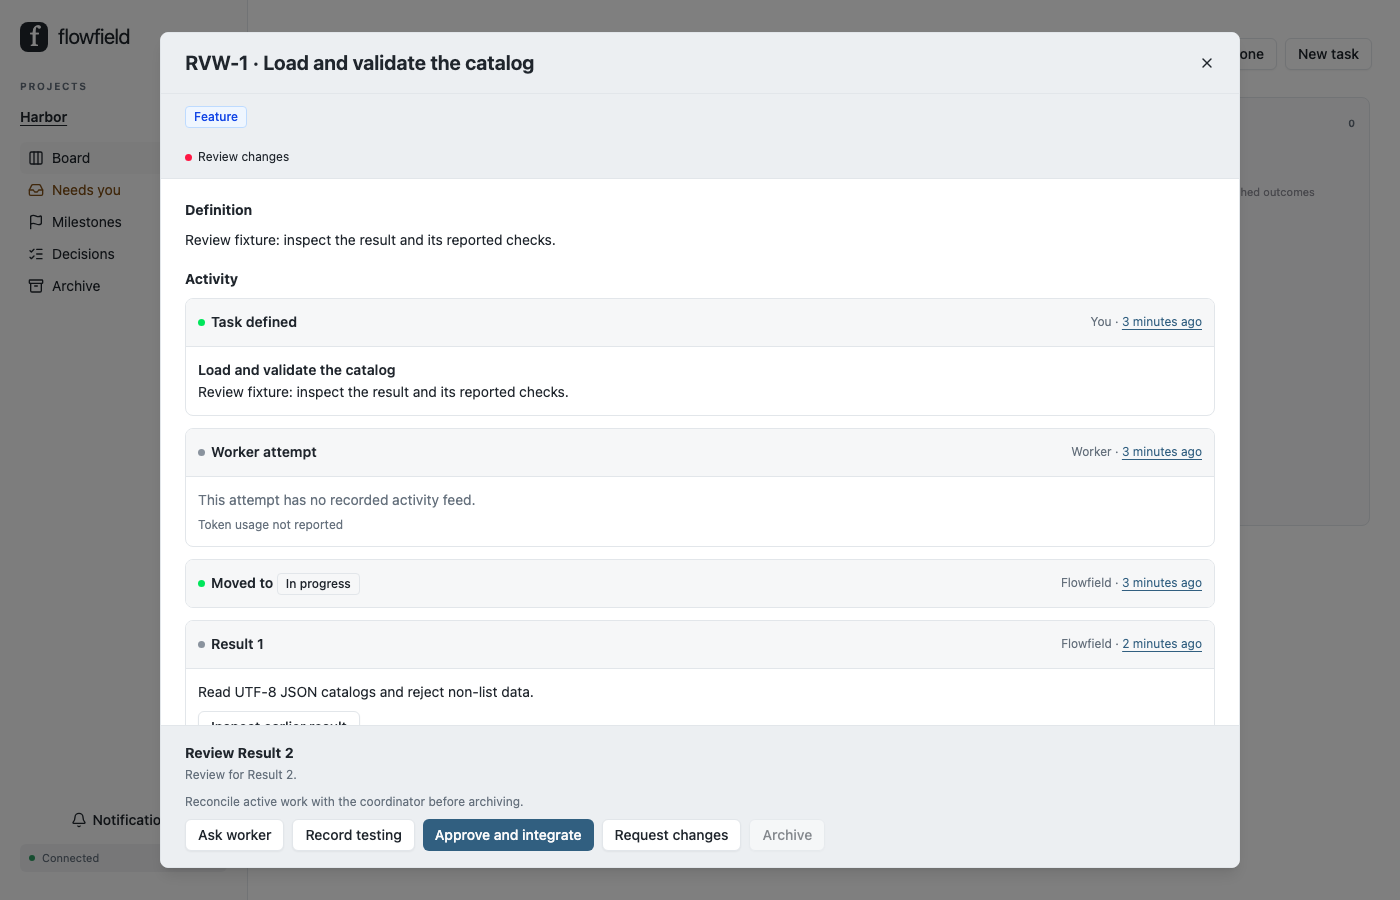
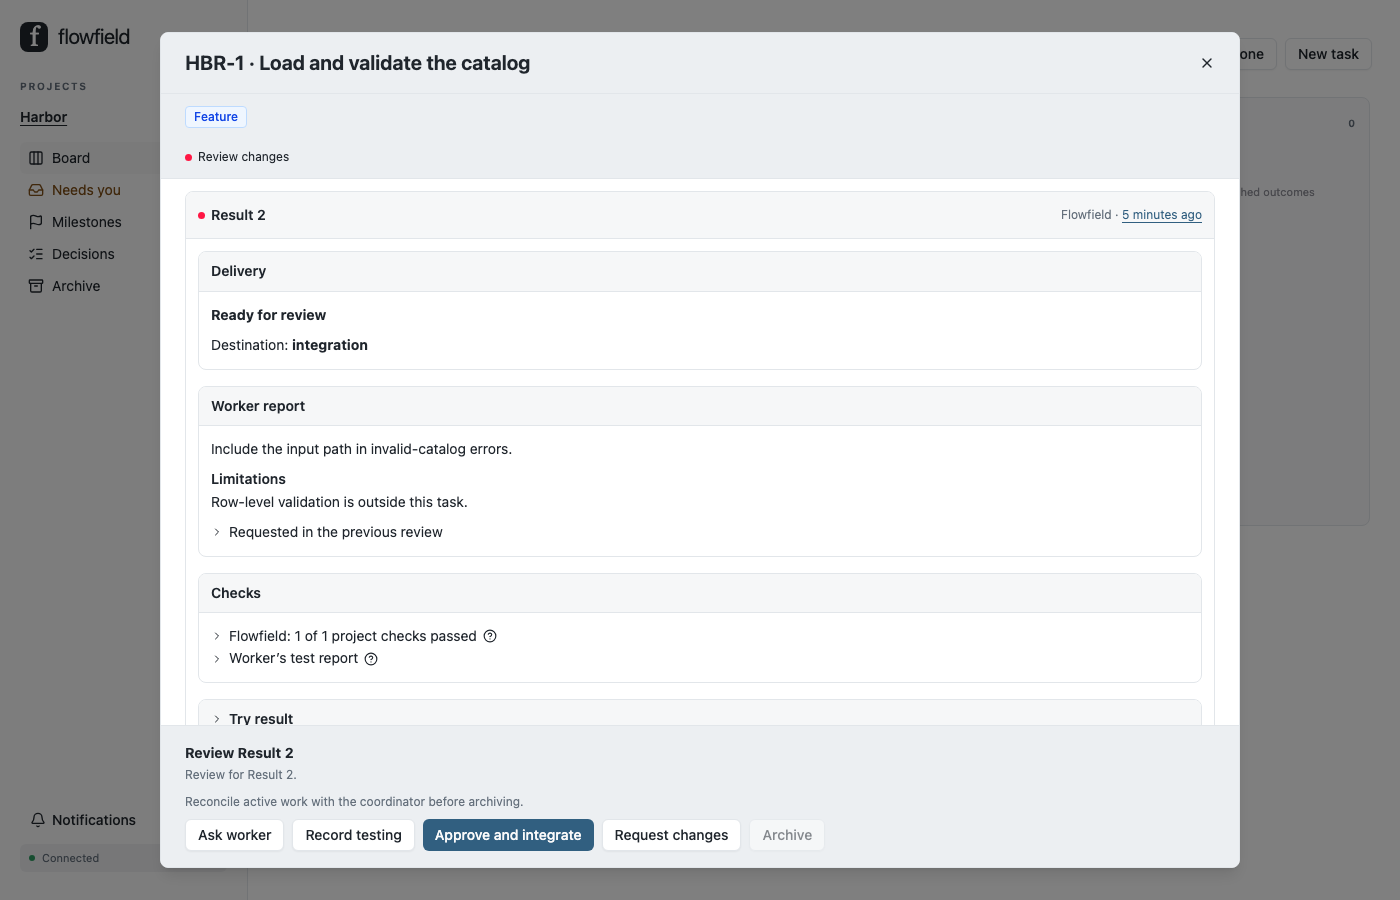
Polish README layout, badges and product screenshots

diff --git a/README.md b/README.md
@@ -1,18 +1,24 @@
-# Flowfield
+<h1 align="center">Flowfield</h1>
 
-**Plan with your coding agent. Follow every task in one shared feed.**
+<p align="center"><strong>Plan with your coding agent. Follow every task in one shared feed.</strong></p>
+
+<p align="center">
+  <a href="https://pypi.org/project/flowfield-core/"><img src="https://img.shields.io/badge/PyPI-flowfield--core-2563eb?logo=pypi&amp;logoColor=white" alt="PyPI: flowfield-core"></a>
+  <a href="https://github.com/flowfield-sh/flowfield-core/actions/workflows/tests.yml"><img src="https://img.shields.io/github/actions/workflow/status/flowfield-sh/flowfield-core/tests.yml?branch=main&amp;label=tests" alt="Tests"></a>
+  <a href="https://github.com/flowfield-sh/flowfield-core/blob/main/docs/getting-started.mdx"><img src="https://img.shields.io/badge/docs-getting%20started-2563eb" alt="Documentation"></a>
+</p>
+
+![Flowfield task feed with a worker result and review controls](docs/images/overview.png)
 
 Flowfield runs agreed work in parallel and brings progress, questions, answers and results
 together for your review. Keep talking to your coordinator while workers implement tasks;
 use the board to see what matters and what needs you.
 
-![Flowfield board with priorities, questions and results ready for review](docs/images/board.png)
-
 - **Shared task feeds.** Intent, worker activity, questions, testing and results stay together.
 - **Parallel work.** Independent tasks run in separate checkouts; dependencies hold work until it's ready.
 - **Explicit review.** Inspect or try an exact result, request changes, then approve its delivery to your project.
 
-![A task feed with its definition, activity and review controls](docs/images/task-feed.png)
+![Flowfield board with priorities, questions and results ready for review](docs/images/board-overview.png)
 
 Screenshots use an offline demonstration workspace.
 
